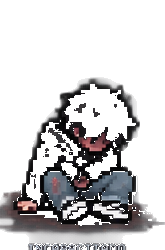
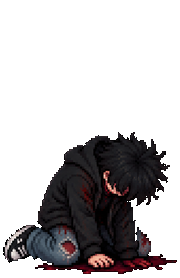
feat: novas artes do personagem padrão (4 poses) e remoção do corte do incapacitado
Substitui normal.png, agony.png e incapacitated.png e adiciona critical.png
em assets/character2d/ (artes do dono do projeto, sem alteração). Nos temas
padrão o crítico passa a usar critical.png. Remove o ClipRect que cortava
os 24 px inferiores do incapacitado, feito para esconder o texto do sprite
antigo. Testes: critical.png na tabela dos temas padrão e verificação de
assinatura PNG e tamanho 180×278 pelo IHDR.

Claude-Session: https://claude.ai/code/session_01AnJyYSeAvu7QiM48FSZw1X

diff --git a/test/character_sprites_test.dart b/test/character_sprites_test.dart
@@ -7,7 +7,7 @@ const _poses = ['incapacitated', 'critical', 'agony', 'normal'];
 
 const _defaultSprites = {
   'incapacitated': 'assets/character2d/incapacitated.png',
-  'critical': 'assets/character2d/normal.png',
+  'critical': 'assets/character2d/critical.png',
   'agony': 'assets/character2d/agony.png',
   'normal': 'assets/character2d/normal.png',
 };
@@ -98,8 +98,21 @@ void main() {
       });
     }
 
-    test('temas padrão usam normal.png no crítico', () {
-      expect(characterSpritePath(themeId: 'classic', pose: 'critical'), 'assets/character2d/normal.png');
+    test('temas padrão usam critical.png no crítico', () {
+      expect(characterSpritePath(themeId: 'classic', pose: 'critical'), 'assets/character2d/critical.png');
+    });
+
+    test('sprites padrão são PNG de 180×278', () {
+      for (final name in ['normal', 'agony', 'critical', 'incapacitated']) {
+        final file = File('assets/character2d/$name.png');
+        expect(file.existsSync(), isTrue, reason: name);
+        final bytes = file.readAsBytesSync();
+        expect(bytes.sublist(0, 4), [0x89, 0x50, 0x4E, 0x47], reason: '$name: assinatura PNG');
+        int readUint32(int offset) =>
+            (bytes[offset] << 24) | (bytes[offset + 1] << 16) | (bytes[offset + 2] << 8) | bytes[offset + 3];
+        expect(readUint32(16), 180, reason: '$name: largura');
+        expect(readUint32(20), 278, reason: '$name: altura');
+      }
     });
 
     test('todos os sprites esperados existem em disco', () {

diff --git a/lib/screens/character/character_screen.dart b/lib/screens/character/character_screen.dart
@@ -1459,17 +1459,7 @@ class _CombatCharacter2D extends StatelessWidget {
                                     ),
                                   ),
                                 )
-                              : incapacitated
-                                  ? ClipRect(
-                                      child: SizedBox(
-                                        height: 174,
-                                        child: Align(
-                                          alignment: Alignment.topCenter,
-                                          child: Image.asset(spritePath, height: 198, fit: BoxFit.contain, filterQuality: FilterQuality.none),
-                                        ),
-                                      ),
-                                    )
-                                  : Image.asset(spritePath, height: 198, fit: BoxFit.contain, filterQuality: FilterQuality.none),
+                              : Image.asset(spritePath, height: 198, fit: BoxFit.contain, filterQuality: FilterQuality.none),
                         ),
                       ),
                     ),

diff --git a/lib/screens/character/character_sprites.dart b/lib/screens/character/character_sprites.dart
@@ -12,7 +12,7 @@ String characterPoseFor({required int life, required int lifeMax, required bool 
 
 const _defaultCharacterSprites = <String, String>{
   'incapacitated': 'assets/character2d/incapacitated.png',
-  'critical': 'assets/character2d/normal.png',
+  'critical': 'assets/character2d/critical.png',
   'agony': 'assets/character2d/agony.png',
   'normal': 'assets/character2d/normal.png',
 };
